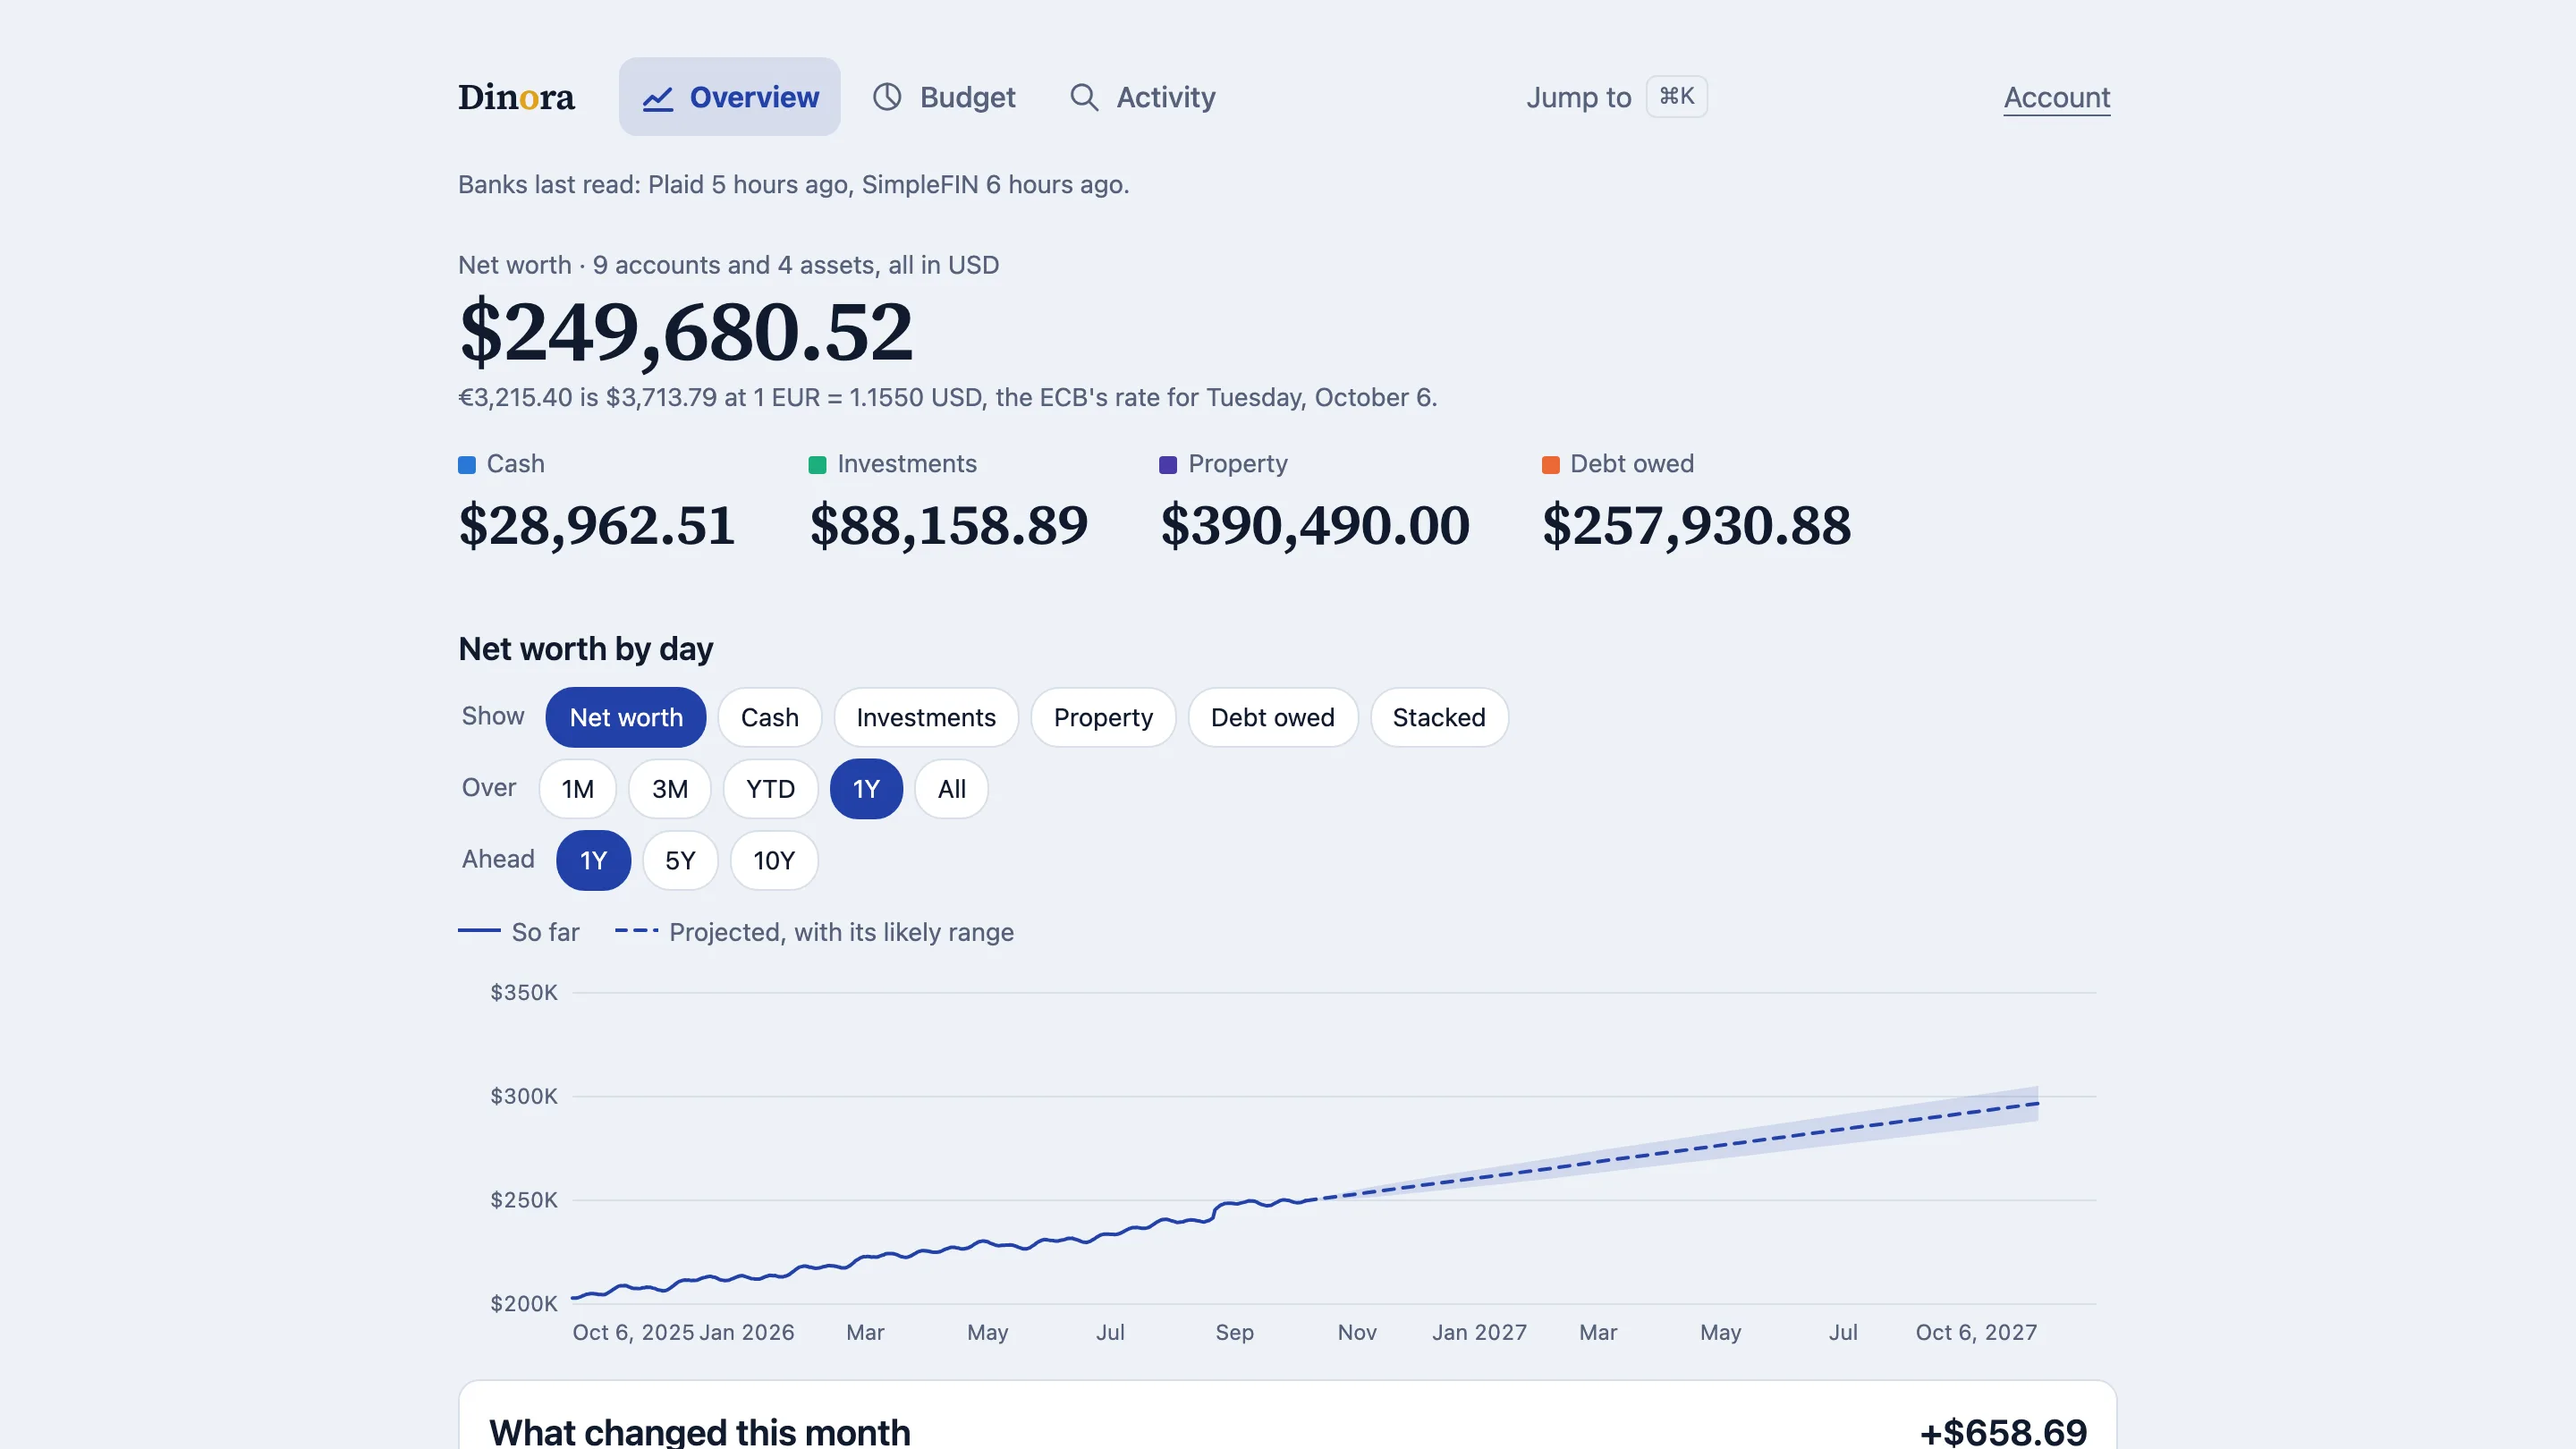
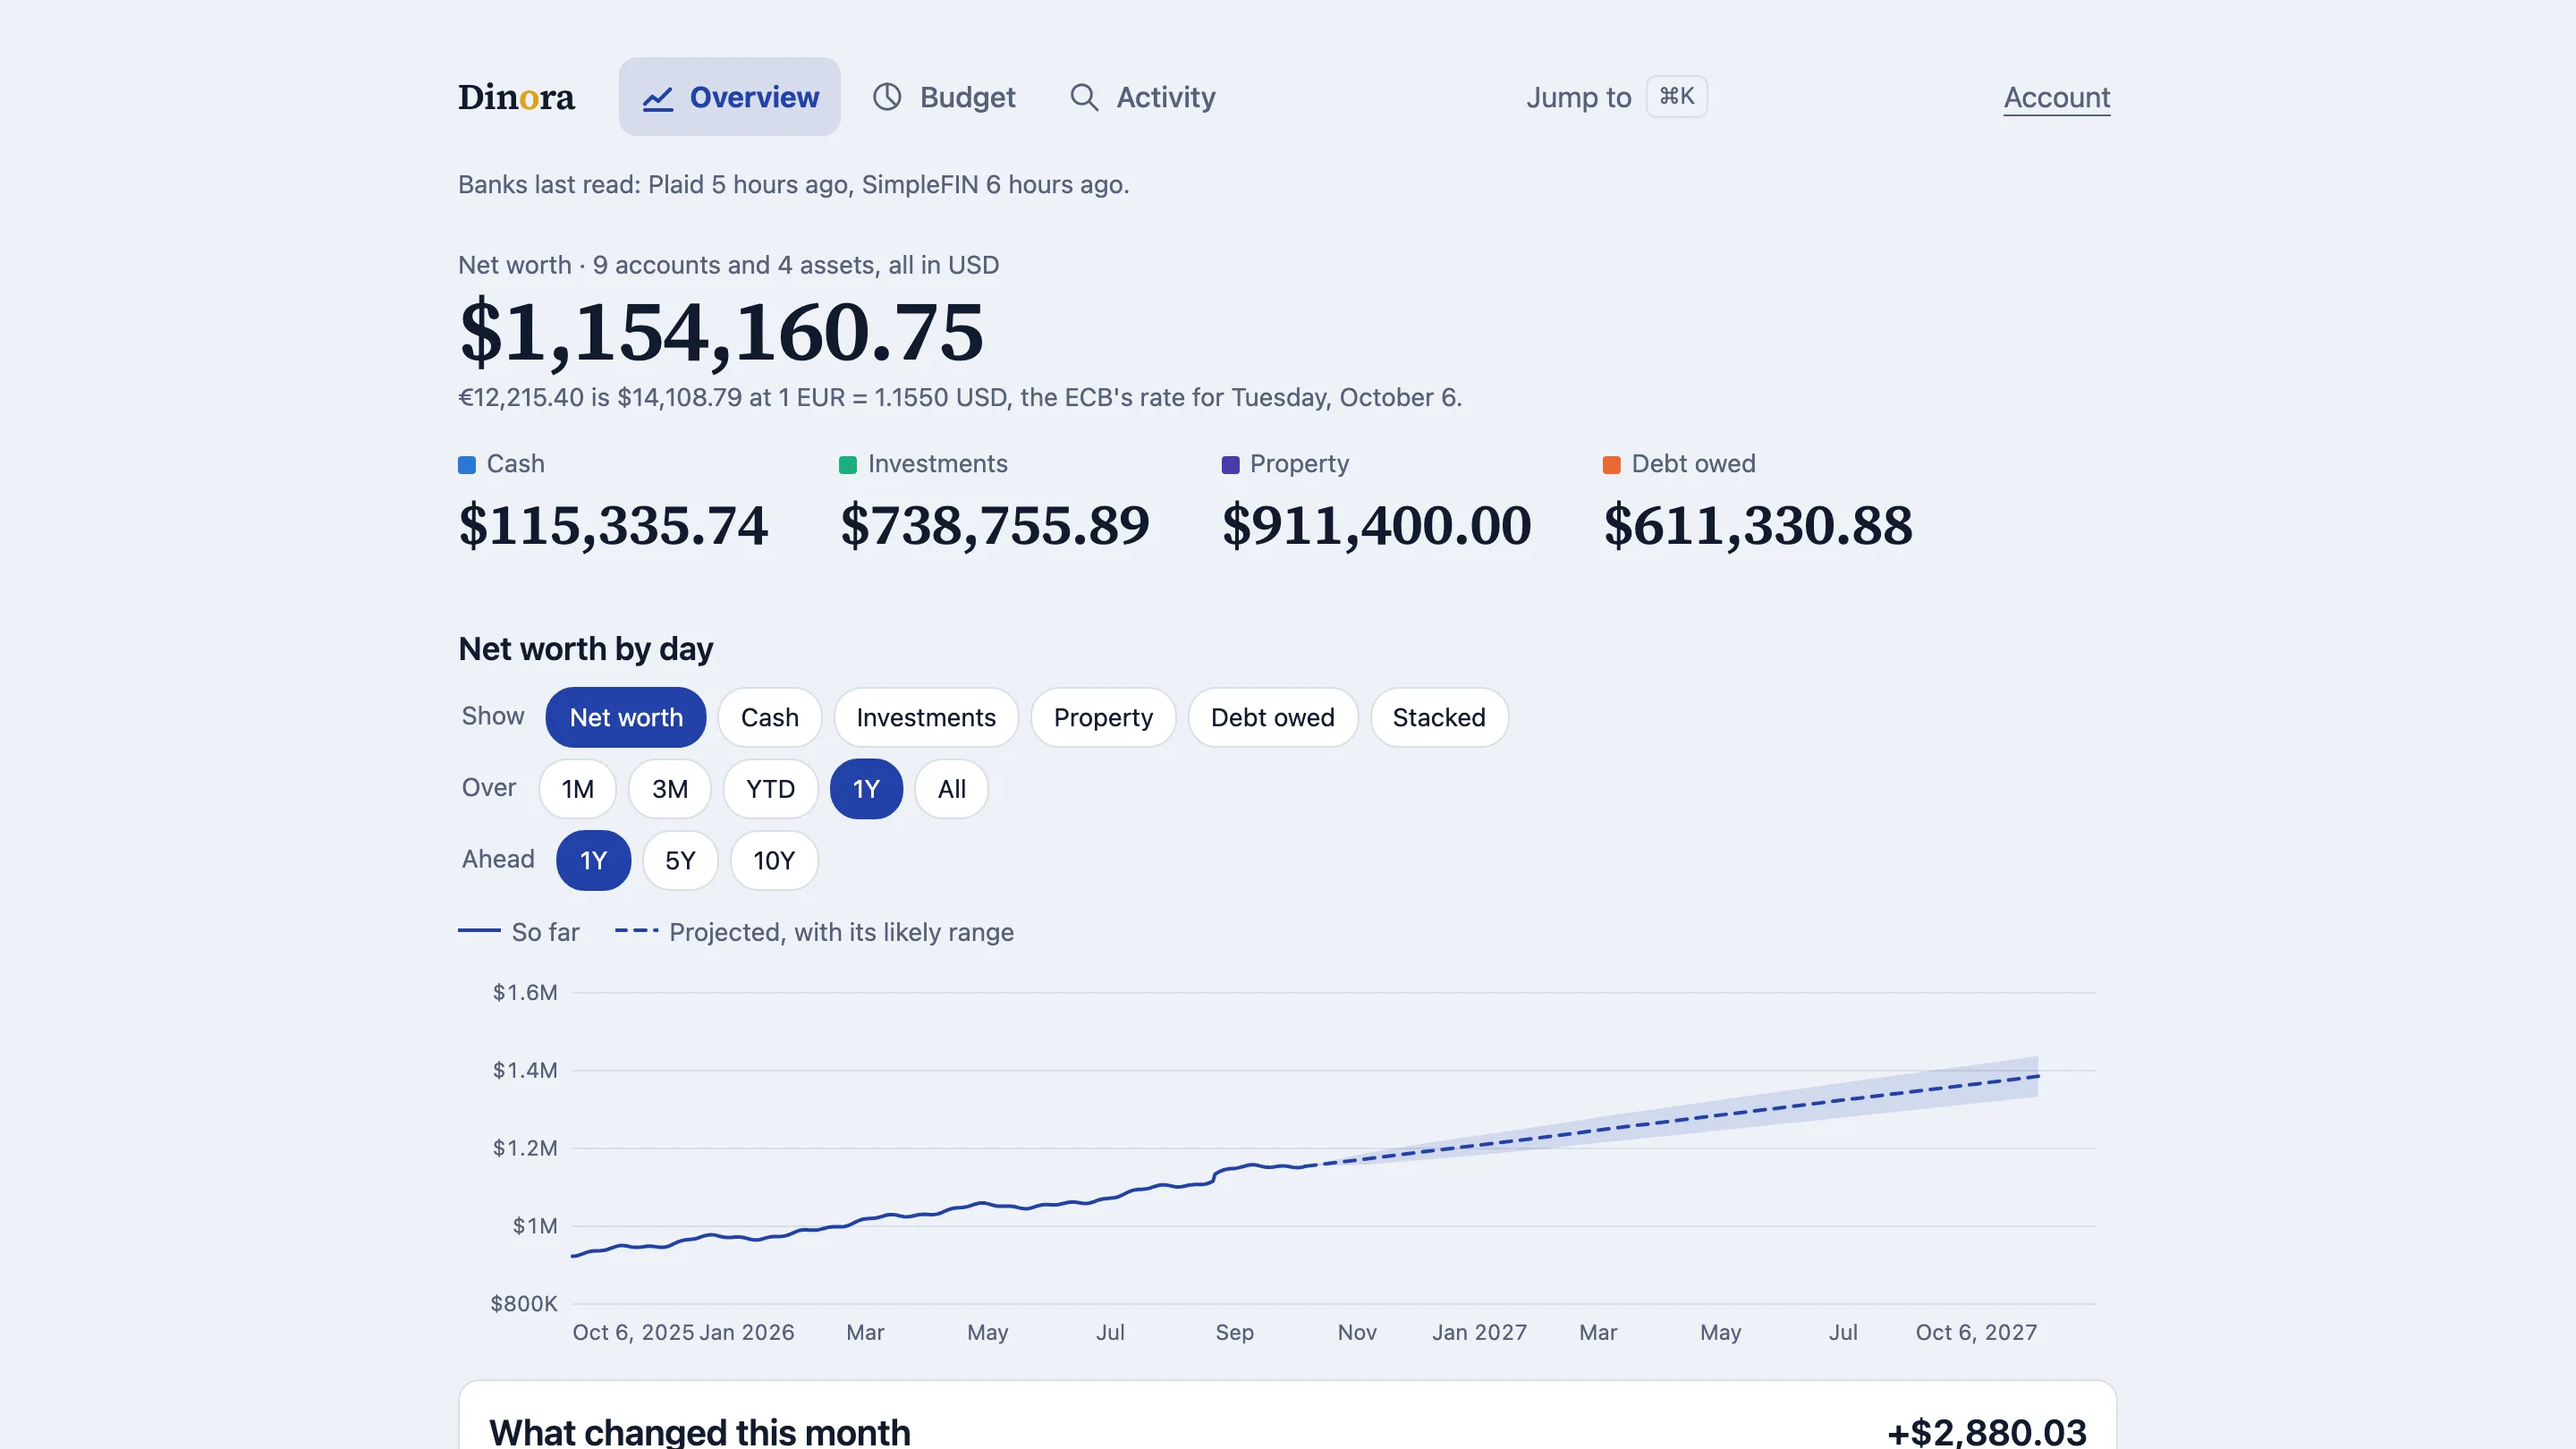
Dinora's screenshots show a millionaire household
Nora asked whether the invented household could be a millionaire. It is now
worth about $1.15M, and the year's net worth line crosses a million in
February, with the rest scaled to match: a house bought for $640,000 and
valued at $860,000 against its loan, a larger brokerage and Roth, 18.5 ETH,
two hundred ounces of silver, pay and budgets that fit. Still invented, and
still nothing of hers. The page's alt text quotes the new figures.

Runway: CASEY-4

diff --git a/src/pages/DinoraPage.tsx b/src/pages/DinoraPage.tsx
@@ -96,7 +96,7 @@ export function DinoraPage(): React.ReactElement {
       <ShowcaseGame width="100%" thirdParty={false}>
         <CaseStudyMedia
           image={dinoraDashboard}
-          alt="The Dinora overview with invented figures. Banks last read five and six hours ago. Net worth of $249,680.52 across nine accounts and four assets, with a line under it saying the euro account was converted at the ECB's rate for the day before. Four totals: cash, investments, property and debt owed. Below, a year of net worth by day as a line rising from about $200,000, running on into a dashed projection with a shaded likely range."
+          alt="The Dinora overview with invented figures. Banks last read five and six hours ago. Net worth of $1,154,160.75 across nine accounts and four assets, with a line under it saying the euro account was converted at the ECB's rate for the day before. Four totals: cash, investments, property and debt owed. Below, a year of net worth by day as a line rising from about $920,000, past a million in February, and running on into a dashed projection with a shaded likely range."
           caption="The overview. The money is invented for this page: the app is real, and every account, charge and balance in it comes from a generator."
         />
       </ShowcaseGame>
@@ -149,25 +149,25 @@ export function DinoraPage(): React.ReactElement {
                 screens={[
                   {
                     image: dinoraBudget,
-                    alt: "The budget for September 2026: $2,073.59 spent of $2,050.00 budgeted, $23.59 over. A chart of spending through the month against an even pace and against August. Below it, a notice that two transactions have no category, with a button to categorize them, then the categories that went over.",
+                    alt: "The budget for September 2026: $3,295.97 spent of $4,170.00 budgeted, $874.03 left. A chart of spending through the month against an even pace and against August. Below it, a notice that two transactions have no category, with a button to categorize them, then the categories that went over.",
                     caption:
                       "A month, closed. Two charges no bank named a category for are offered for sorting right there.",
                   },
                   {
                     image: dinoraCondo,
-                    alt: "A condo's page. The value I set, $365,000, counts. Since it was bought for $318,000 in 2021, it is up $47,000. What is mine after the home loan is shown beside what is still owed. A line below gives RentCast's estimate and its range, and says mine is the one that counts.",
+                    alt: "A house's page. The value I set, $860,000, counts. Since it was bought for $640,000 in 2021, it is up $220,000. What is mine after the home loan is shown beside what is still owed. A line below gives RentCast's estimate and its range, and says mine is the one that counts.",
                     caption:
                       "A home, tied to the loan that bought it. My value counts; the market's estimate sits beside it, quieter.",
                   },
                   {
                     image: dinoraEther,
-                    alt: "An Ether holding's page: $7,733.00, from 1.85 ETH at Gemini's close the day before. The value is listed under Values with the quantity it was taken at.",
+                    alt: "An Ether holding's page: $77,330.00, from 18.5 ETH at Gemini's close the day before. The value is listed under Values with the quantity it was taken at.",
                     caption:
                       "Crypto entered as how much is held, once, and priced at each day's close.",
                   },
                   {
                     image: dinoraRecurring,
-                    alt: "The Activity page, with a search box over 380 transactions and a Recurring list: Spotify, Whole Foods Market, Portland General Electric, Xfinity, NW Natural and Netflix, each with how often it comes back, when it is next expected, and about how much a year.",
+                    alt: "The Activity page, with a search box over 333 transactions and a Recurring list: New Seasons Market, Spotify, Venmo, Portland General Electric, Xfinity and NW Natural, each with how often it comes back, when it is next expected, and about how much a year.",
                     caption:
                       "Recurring charges, found from the history rather than typed in.",
                   },
@@ -175,7 +175,7 @@ export function DinoraPage(): React.ReactElement {
                 phones={[
                   {
                     image: dinoraPhoneBudget,
-                    alt: "The September budget on a phone, with the spending chart and the first category over budget, and a tab bar for Overview, Budget and Activity at the bottom.",
+                    alt: "The September budget on a phone, with the spending chart and the month within budget, and a tab bar for Overview, Budget and Activity at the bottom.",
                     caption: "The budget, on the installed phone app.",
                   },
                   {
